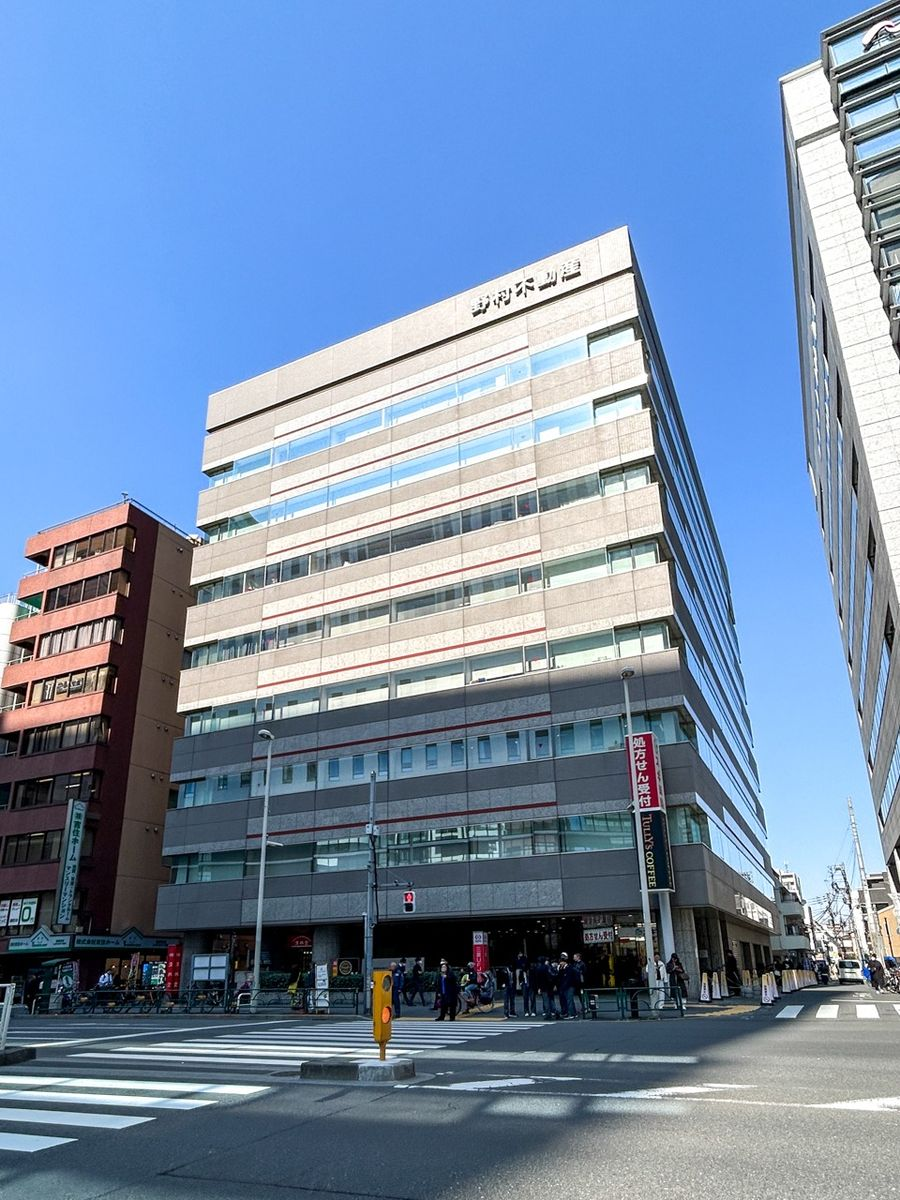
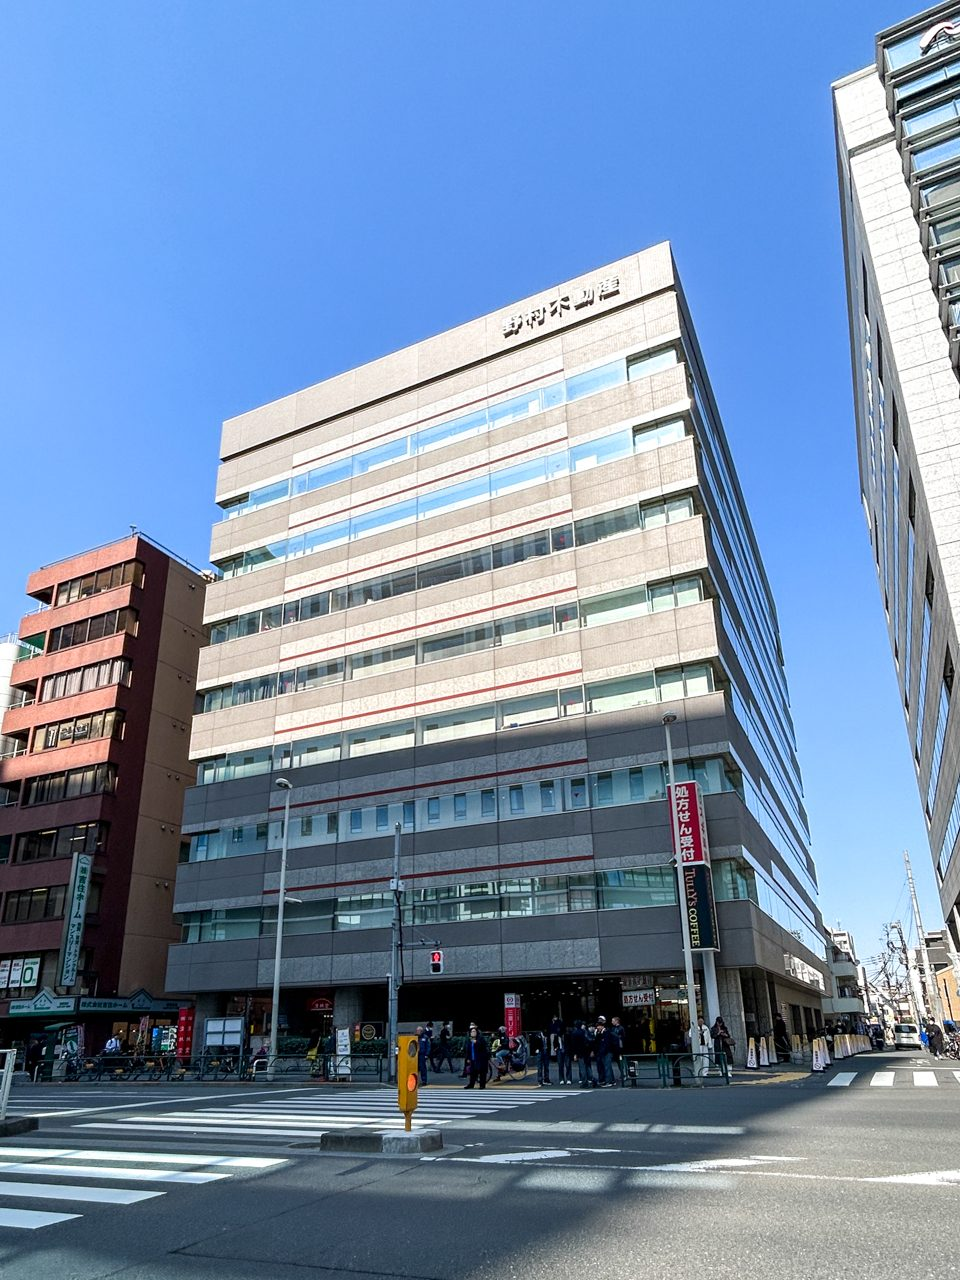
写真の色・トリミングを元に戻す、取扱資源の見出しずれ修正、Surita会長の略歴を公式テキストに更新
1. 拠点ページの建物写真: .base-photo に掛かっていた --hero-img-filter
   (saturate(.5) で彩度半減)を除去し、元の自然な色味に戻した。また
   3:4への強制クロップもやめ、aspect-ratio/object-fitの指定を外して
   各写真本来の構図（フルフレーム、ウランバートル575x870・東京960x1280）
   のまま表示するよう変更。

2. 取扱資源ページ: 「ENERGY RESOURCES」だけ英字ラベルが2行になり、
   共有されたsubgrid行内でalign-self:endのため1行ラベルの3カードより
   見出しが高い位置にずれて見えていた(h3自体は既にsubgridで揃って
   いたが、ラベルの開始位置が不揃いだった)。align-self:startに変更し、
   ラベルの上端を全カードで揃えた。

3. 経営体制ページ: Kazuyuki Surita会長の略歴(EN/MN)を提供された公式
   テキストに更新。3項目だった箇条書きを2項目に統合
   （「日本側株主・経営戦略を統括」+「日本国内の産業ネットワークとの
   連携」→ 一文に統合）。JA版は対応する差し替え文言が未提供のため
   現状維持（3項目のまま）。

styles.css バージョンをv9に更新。

Claude-Session: https://claude.ai/code/session_01QccNQSXCBXxTqDbQgyTvhd

Changed region(s): [[0.9956, 0.8017, 1.0, 0.8325], [0.9956, 0.0, 1.0, 0.0308]]

diff --git a/docs/styles.css b/docs/styles.css
@@ -889,13 +889,14 @@ html.intro-done .hero-actions{transition-delay:1200ms}
 .section--bases{background:var(--bg)}
 .bases-grid{display:grid;grid-template-columns:repeat(2,1fr);gap:clamp(18px,3vw,28px)}
 .base-card{border:1px solid var(--line-soft);background:var(--bg-2);overflow:hidden;display:flex;flex-direction:column}
-/* photo above the map, building-exterior shots (2026-11) — 3:4 rather than
-   16:9 since both source photos are tall/portrait building shots; a wide
-   crop would have cut most of the building off. margin-bottom separates it
-   from .base-media below (previously flush against it, reading as one
-   merged image block) — the gap reveals .base-card's own background. */
-.base-photo{aspect-ratio:3/4;overflow:hidden;background:var(--img-backing);margin-bottom:10px}
-.base-photo img{width:100%;height:auto;aspect-ratio:3/4;object-fit:cover;display:block;filter:var(--hero-img-filter)}
+/* photo above the map, building-exterior shots (2026-11) — shown at each
+   photo's own natural aspect ratio, uncropped (no aspect-ratio/object-fit
+   forcing a crop) and with full original color (no --hero-img-filter
+   desaturation) per direct request. margin-bottom separates it from
+   .base-media below (previously flush against it, reading as one merged
+   image block) — the gap reveals .base-card's own background. */
+.base-photo{overflow:hidden;background:var(--img-backing);margin-bottom:10px}
+.base-photo img{width:100%;height:auto;display:block}
 /* a real embedded Google Map (the no-API-key /maps?...&output=embed form) —
    not a screenshot: redistributing scraped map-tile imagery, restyled or
    not, is against Google's terms, where an embed is the sanctioned way to
@@ -1241,7 +1242,15 @@ html[lang="mn"] .nav-toggle{display:flex;z-index:110}
   .res-card:not(.res-card--feature){display:grid;grid-template-rows:subgrid;grid-row:span 5;row-gap:0}
   .res-card:not(.res-card--feature)>.res-media{grid-row:1}
   .res-card:not(.res-card--feature)>.res-body{grid-row:2 / span 4;display:grid;grid-template-rows:subgrid;row-gap:12px;align-content:start}
-  .res-card:not(.res-card--feature) .res-body>.res-en{grid-row:1;align-self:end}
+  /* align-self:start, not end — "ENERGY RESOURCES" wraps to 2 lines while
+     the other 3 cards' labels are 1 line; subgrid shares row 1's height
+     across all 4 (sized to fit the 2-line label), but bottom-aligning
+     (end) within that shared row made the 1-line labels sit noticeably
+     lower than the 2-line one, reading as misaligned even though h3 below
+     is already correctly flush. Top-aligning instead keeps every label's
+     top edge level (what the eye actually tracks), with the extra line
+     simply growing downward into the row's reserved space. */
+  .res-card:not(.res-card--feature) .res-body>.res-en{grid-row:1;align-self:start}
   .res-card:not(.res-card--feature) .res-body>h3{grid-row:2}
   .res-card:not(.res-card--feature) .res-body>.res-tag-row{grid-row:3}
   .res-card:not(.res-card--feature) .res-body>p{grid-row:4}

diff --git a/docs/mn/bases/index.html b/docs/mn/bases/index.html
@@ -41,7 +41,7 @@
 <link rel="icon" type="image/png" sizes="32x32" href="/assets/favicon-32.png">
 <link rel="apple-touch-icon" href="/assets/favicon-180.png">
 <!-- フォントは自社ホスティング（docs/assets/fonts/、styles.css 冒頭の @font-face）。Google Fonts への外部リクエストなし -->
-<link rel="stylesheet" href="/styles.css?v=8">
+<link rel="stylesheet" href="/styles.css?v=9">
 <script type="application/ld+json">
 {
   "@context": "https://schema.org",
@@ -149,7 +149,7 @@
         <article class="base-card reveal">
           <!-- 要法務確認：インターネット上で見つけた建物外観写真。自社で撮影・許諾を得たものではないため、著作権上のリスクあり。正式な自社撮影 or ライセンス取得済み画像への差し替えを検討してください -->
           <div class="base-photo">
-            <img src="/assets/img/base-ub-exterior.jpg" alt="Улаанбаатар дахь төв оффис байрлах Блю Скай Тауэр (гадна талаас)" width="575" height="767" loading="lazy">
+            <img src="/assets/img/base-ub-exterior.jpg" alt="Улаанбаатар дахь төв оффис байрлах Блю Скай Тауэр (гадна талаас)" width="575" height="870" loading="lazy">
           </div>
           <div class="base-media">
             <iframe src="https://maps.google.com/maps?q=Blue%20Sky%20Tower%2C%20Peace%20Avenue%2C%20Ulaanbaatar%2C%20Mongolia&z=16&output=embed" loading="lazy" title="Улаанбаатар төв оффисын газрын зураг"></iframe>
@@ -167,7 +167,7 @@
         <article class="base-card reveal">
           <!-- 要法務確認：インターネット上で見つけた建物外観写真。自社で撮影・許諾を得たものではないため、著作権上のリスクあり。正式な自社撮影 or ライセンス取得済み画像への差し替えを検討してください -->
           <div class="base-photo">
-            <img src="/assets/img/base-tokyo-exterior.jpg" alt="Токио дахь оффис байрлах Nomura Real Estate Nishi-Shinjuku барилга (гадна талаас)" width="900" height="1200" loading="lazy">
+            <img src="/assets/img/base-tokyo-exterior.jpg" alt="Токио дахь оффис байрлах Nomura Real Estate Nishi-Shinjuku барилга (гадна талаас)" width="960" height="1280" loading="lazy">
           </div>
           <div class="base-media">
             <iframe src="https://maps.google.com/maps?q=%E8%A5%BF%E6%96%B0%E5%AE%BF8-5-1%20%E9%87%8E%E6%9D%91%E4%B8%8D%E5%8B%95%E7%94%A3%E8%A5%BF%E6%96%B0%E5%AE%BF%E5%85%B1%E5%90%8C%E3%83%93%E3%83%AB%2C%20%E6%96%B0%E5%AE%BF%E5%8C%BA%2C%20%E6%9D%B1%E4%BA%AC%E9%83%BD&z=16&output=embed" loading="lazy" title="Токио оффисын газрын зураг"></iframe>

diff --git a/docs/bases/index.html b/docs/bases/index.html
@@ -41,7 +41,7 @@
 <link rel="icon" type="image/png" sizes="32x32" href="/assets/favicon-32.png">
 <link rel="apple-touch-icon" href="/assets/favicon-180.png">
 <!-- フォントは自社ホスティング（docs/assets/fonts/、styles.css 冒頭の @font-face）。Google Fonts への外部リクエストなし -->
-<link rel="stylesheet" href="/styles.css?v=8">
+<link rel="stylesheet" href="/styles.css?v=9">
 <script type="application/ld+json">
 {
   "@context": "https://schema.org",
@@ -149,7 +149,7 @@
         <article class="base-card reveal">
           <!-- 要法務確認：インターネット上で見つけた建物外観写真。自社で撮影・許諾を得たものではないため、著作権上のリスクあり。正式な自社撮影 or ライセンス取得済み画像への差し替えを検討してください -->
           <div class="base-photo">
-            <img src="/assets/img/base-ub-exterior.jpg" alt="ウランバートル本社が入るブルースカイタワー（外観）" width="575" height="767" loading="lazy">
+            <img src="/assets/img/base-ub-exterior.jpg" alt="ウランバートル本社が入るブルースカイタワー（外観）" width="575" height="870" loading="lazy">
           </div>
           <div class="base-media">
             <iframe src="https://maps.google.com/maps?q=Blue%20Sky%20Tower%2C%20Peace%20Avenue%2C%20Ulaanbaatar%2C%20Mongolia&z=16&output=embed" loading="lazy" title="ウランバートル本社の地図"></iframe>
@@ -171,7 +171,7 @@
         <article class="base-card reveal">
           <!-- 要法務確認：インターネット上で見つけた建物外観写真。自社で撮影・許諾を得たものではないため、著作権上のリスクあり。正式な自社撮影 or ライセンス取得済み画像への差し替えを検討してください -->
           <div class="base-photo">
-            <img src="/assets/img/base-tokyo-exterior.jpg" alt="東京オフィスが入る野村不動産西新宿共同ビル（外観）" width="900" height="1200" loading="lazy">
+            <img src="/assets/img/base-tokyo-exterior.jpg" alt="東京オフィスが入る野村不動産西新宿共同ビル（外観）" width="960" height="1280" loading="lazy">
           </div>
           <div class="base-media">
             <iframe src="https://maps.google.com/maps?q=%E8%A5%BF%E6%96%B0%E5%AE%BF8-5-1%20%E9%87%8E%E6%9D%91%E4%B8%8D%E5%8B%95%E7%94%A3%E8%A5%BF%E6%96%B0%E5%AE%BF%E5%85%B1%E5%90%8C%E3%83%93%E3%83%AB%2C%20%E6%96%B0%E5%AE%BF%E5%8C%BA%2C%20%E6%9D%B1%E4%BA%AC%E9%83%BD&z=16&output=embed" loading="lazy" title="東京オフィスの地図"></iframe>

diff --git a/docs/en/bases/index.html b/docs/en/bases/index.html
@@ -41,7 +41,7 @@
 <link rel="icon" type="image/png" sizes="32x32" href="/assets/favicon-32.png">
 <link rel="apple-touch-icon" href="/assets/favicon-180.png">
 <!-- フォントは自社ホスティング（docs/assets/fonts/、styles.css 冒頭の @font-face）。Google Fonts への外部リクエストなし -->
-<link rel="stylesheet" href="/styles.css?v=8">
+<link rel="stylesheet" href="/styles.css?v=9">
 <script type="application/ld+json">
 {
   "@context": "https://schema.org",
@@ -149,7 +149,7 @@
         <article class="base-card reveal">
           <!-- 要法務確認：インターネット上で見つけた建物外観写真。自社で撮影・許諾を得たものではないため、著作権上のリスクあり。正式な自社撮影 or ライセンス取得済み画像への差し替えを検討してください -->
           <div class="base-photo">
-            <img src="/assets/img/base-ub-exterior.jpg" alt="Blue Sky Tower, home to our Ulaanbaatar head office" width="575" height="767" loading="lazy">
+            <img src="/assets/img/base-ub-exterior.jpg" alt="Blue Sky Tower, home to our Ulaanbaatar head office" width="575" height="870" loading="lazy">
           </div>
           <div class="base-media">
             <iframe src="https://maps.google.com/maps?q=Blue%20Sky%20Tower%2C%20Peace%20Avenue%2C%20Ulaanbaatar%2C%20Mongolia&z=16&output=embed" loading="lazy" title="Map of the Ulaanbaatar head office"></iframe>
@@ -171,7 +171,7 @@
         <article class="base-card reveal">
           <!-- 要法務確認：インターネット上で見つけた建物外観写真。自社で撮影・許諾を得たものではないため、著作権上のリスクあり。正式な自社撮影 or ライセンス取得済み画像への差し替えを検討してください -->
           <div class="base-photo">
-            <img src="/assets/img/base-tokyo-exterior.jpg" alt="Nomura Real Estate Nishi-Shinjuku Kyodo Building, home to our Tokyo office" width="900" height="1200" loading="lazy">
+            <img src="/assets/img/base-tokyo-exterior.jpg" alt="Nomura Real Estate Nishi-Shinjuku Kyodo Building, home to our Tokyo office" width="960" height="1280" loading="lazy">
           </div>
           <div class="base-media">
             <iframe src="https://maps.google.com/maps?q=%E8%A5%BF%E6%96%B0%E5%AE%BF8-5-1%20%E9%87%8E%E6%9D%91%E4%B8%8D%E5%8B%95%E7%94%A3%E8%A5%BF%E6%96%B0%E5%AE%BF%E5%85%B1%E5%90%8C%E3%83%93%E3%83%AB%2C%20%E6%96%B0%E5%AE%BF%E5%8C%BA%2C%20%E6%9D%B1%E4%BA%AC%E9%83%BD&z=16&output=embed" loading="lazy" title="Map of the Tokyo office"></iframe>

diff --git a/docs/mn/leadership/index.html b/docs/mn/leadership/index.html
@@ -41,7 +41,7 @@
 <link rel="icon" type="image/png" sizes="32x32" href="/assets/favicon-32.png">
 <link rel="apple-touch-icon" href="/assets/favicon-180.png">
 <!-- フォントは自社ホスティング（docs/assets/fonts/、styles.css 冒頭の @font-face）。Google Fonts への外部リクエストなし -->
-<link rel="stylesheet" href="/styles.css?v=8">
+<link rel="stylesheet" href="/styles.css?v=9">
 <script type="application/ld+json">
 {
   "@context": "https://schema.org",
@@ -156,9 +156,8 @@
           <p class="person-role">ДАРГА</p>
           <h3 class="person-name">Kazuyuki Surita <span>摺田 和行</span></h3>
           <ul class="person-points">
-            <li>Үүсгэн байгуулагч, Удирдах зөвлөлийн дарга</li>
-            <li>Японы хувьцаа эзэмшигчид болон компанийн стратегийг хариуцна</li>
-            <li>Япон даяарх салбарын сүлжээтэй холбоо тогтоож ажилладаг</li>
+            <li>Үүсгэн байгуулагч, Төлөөлөн удирдах зөвлөл (ТУЗ)-ийн дарга</li>
+            <li>Компанийн стратегийг удирдан чиглүүлнэ. Япон Улсын хэмжээнд салбар дагнан үйл ажиллагаа эрхэлдэг аж ахуйн нэгж, байгууллагуудтай хамтын ажиллагааг хөгжүүлнэ.</li>
           </ul>
         </article>
         <article class="person reveal">

diff --git a/docs/en/leadership/index.html b/docs/en/leadership/index.html
@@ -41,7 +41,7 @@
 <link rel="icon" type="image/png" sizes="32x32" href="/assets/favicon-32.png">
 <link rel="apple-touch-icon" href="/assets/favicon-180.png">
 <!-- フォントは自社ホスティング（docs/assets/fonts/、styles.css 冒頭の @font-face）。Google Fonts への外部リクエストなし -->
-<link rel="stylesheet" href="/styles.css?v=8">
+<link rel="stylesheet" href="/styles.css?v=9">
 <script type="application/ld+json">
 {
   "@context": "https://schema.org",
@@ -157,8 +157,7 @@
           <h3 class="person-name">Kazuyuki Surita <span>摺田 和行</span></h3>
           <ul class="person-points">
             <li>Founder &amp; Chairman of the Board</li>
-            <li>Oversees Japanese shareholders and corporate strategy</li>
-            <li>Maintains ties with industry networks across Japan</li>
+            <li>Oversees the company's strategic direction and fosters collaboration with specialized businesses and industry organizations across Japan.</li>
           </ul>
         </article>
         <article class="person reveal">

diff --git a/docs/about/index.html b/docs/about/index.html
@@ -41,7 +41,7 @@
 <link rel="icon" type="image/png" sizes="32x32" href="/assets/favicon-32.png">
 <link rel="apple-touch-icon" href="/assets/favicon-180.png">
 <!-- フォントは自社ホスティング（docs/assets/fonts/、styles.css 冒頭の @font-face）。Google Fonts への外部リクエストなし -->
-<link rel="stylesheet" href="/styles.css?v=8">
+<link rel="stylesheet" href="/styles.css?v=9">
 <script type="application/ld+json">
 {
   "@context": "https://schema.org",

diff --git a/docs/business/index.html b/docs/business/index.html
@@ -41,7 +41,7 @@
 <link rel="icon" type="image/png" sizes="32x32" href="/assets/favicon-32.png">
 <link rel="apple-touch-icon" href="/assets/favicon-180.png">
 <!-- フォントは自社ホスティング（docs/assets/fonts/、styles.css 冒頭の @font-face）。Google Fonts への外部リクエストなし -->
-<link rel="stylesheet" href="/styles.css?v=8">
+<link rel="stylesheet" href="/styles.css?v=9">
 <script type="application/ld+json">
 {
   "@context": "https://schema.org",

diff --git a/docs/en/about/index.html b/docs/en/about/index.html
@@ -41,7 +41,7 @@
 <link rel="icon" type="image/png" sizes="32x32" href="/assets/favicon-32.png">
 <link rel="apple-touch-icon" href="/assets/favicon-180.png">
 <!-- フォントは自社ホスティング（docs/assets/fonts/、styles.css 冒頭の @font-face）。Google Fonts への外部リクエストなし -->
-<link rel="stylesheet" href="/styles.css?v=8">
+<link rel="stylesheet" href="/styles.css?v=9">
 <script type="application/ld+json">
 {
   "@context": "https://schema.org",

diff --git a/docs/en/business/index.html b/docs/en/business/index.html
@@ -41,7 +41,7 @@
 <link rel="icon" type="image/png" sizes="32x32" href="/assets/favicon-32.png">
 <link rel="apple-touch-icon" href="/assets/favicon-180.png">
 <!-- フォントは自社ホスティング（docs/assets/fonts/、styles.css 冒頭の @font-face）。Google Fonts への外部リクエストなし -->
-<link rel="stylesheet" href="/styles.css?v=8">
+<link rel="stylesheet" href="/styles.css?v=9">
 <script type="application/ld+json">
 {
   "@context": "https://schema.org",

diff --git a/docs/en/index.html b/docs/en/index.html
@@ -74,7 +74,7 @@
 <link rel="icon" type="image/png" sizes="32x32" href="/assets/favicon-32.png">
 <link rel="apple-touch-icon" href="/assets/favicon-180.png">
 <!-- フォントは自社ホスティング（docs/assets/fonts/、styles.css 冒頭の @font-face）。Google Fonts への外部リクエストなし -->
-<link rel="stylesheet" href="/styles.css?v=8">
+<link rel="stylesheet" href="/styles.css?v=9">
 <script type="application/ld+json">
 {
   "@context": "https://schema.org",

diff --git a/docs/en/resources/index.html b/docs/en/resources/index.html
@@ -41,7 +41,7 @@
 <link rel="icon" type="image/png" sizes="32x32" href="/assets/favicon-32.png">
 <link rel="apple-touch-icon" href="/assets/favicon-180.png">
 <!-- フォントは自社ホスティング（docs/assets/fonts/、styles.css 冒頭の @font-face）。Google Fonts への外部リクエストなし -->
-<link rel="stylesheet" href="/styles.css?v=8">
+<link rel="stylesheet" href="/styles.css?v=9">
 <script type="application/ld+json">
 {
   "@context": "https://schema.org",
